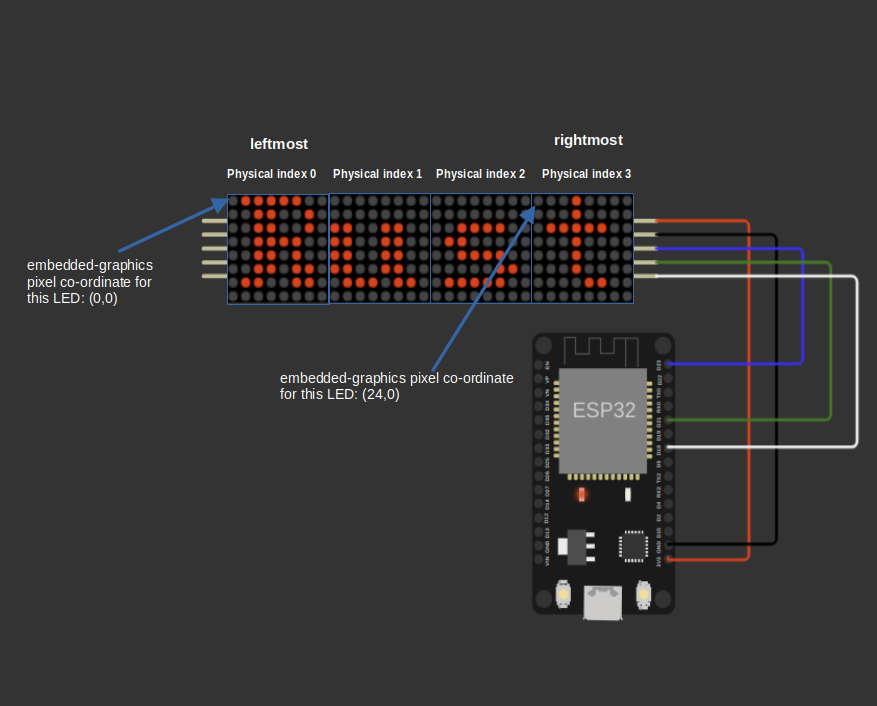
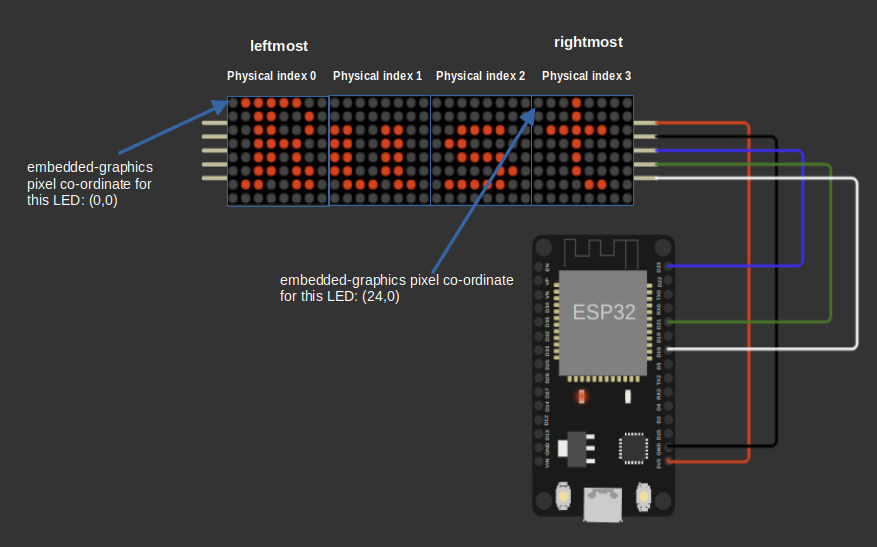
left-to-right indices for max7219 daisy-chain

Changed region(s): [[0.0308, 0.1243, 0.9852, 0.9634], [0.6157, 0.0622, 0.7081, 0.0932], [0.2771, 0.0622, 0.3694, 0.0932]]

diff --git a/src/max7219/driver-implementation/spi-write.md b/src/max7219/driver-implementation/spi-write.md
@@ -10,7 +10,14 @@ If there is just a single device (device index 0, which is the closest to the mi
 
 When there are multiple devices, we write at the right offset for the target device, and the rest of the buffer remains zeros (no-ops) to avoid affecting other devices.
 
-For example, if there are 4 devices and we want to write to the device at index 2 (the third device from the microcontroller), the offset for the register address is 2 * 2 = 4, and the data byte goes at index 5.
+<div style="text-align: center;">
+  <a href="../images/max7219-daisy-chain-indices.png"><img style="display: block; margin: auto;" alt="Max7219 Devices Device Indices" src="../images/max7219-daisy-chain-indices.png"/></a>
+  <figcaption style="font-style: italic; margin-top: 8px; color: #555;">
+    Figure 1: 4 daisy-chained Max7219 device Indices
+  </figcaption>
+</div> 
+
+For example, if there are 4 devices and we want to write to the device at index 2 (the third device from the left), the offset for the register address is 2 * 2 = 4, and the data byte goes at index 5.
 
 So the full data sent through SPI will look like this (2 bytes per device):
 
@@ -54,9 +61,9 @@ For example, if we have 4 devices and want to send register-data pairs to all, t
 
 | Index    | 0              | 1         | 2              | 3         | 4              | 5         | 6              | 7         |
 |----------|----------------|-----------|----------------|-----------|----------------|-----------|----------------|-----------|
-| Content  | reg_3 | data_3    | reg_2 | data_2    | reg_1 | data_1    | reg_0 | data_0    |
+| Content  | reg_0 | data_0    | reg_1 | data_1    | reg_2 | data_2    | reg_3 | data_3    |
 
-Here, bytes 0 and 1 are for device 3, bytes 2 and 3 for device 2, and so on.
+Here, bytes 0 and 1 are for device 0, bytes 2 and 3 for device 1, and so on.
 
 ```rust
 pub(crate) fn write_all_registers(&mut self, ops: &[(Register, u8)]) -> Result<()> {
@@ -64,7 +71,7 @@ pub(crate) fn write_all_registers(&mut self, ops: &[(Register, u8)]) -> Result<(
     self.buffer = [0; MAX_DISPLAYS * 2];
 
     // fill in reverse order so that SPI shifts into the last device first
-    for (i, &(reg, data)) in ops.iter().rev().enumerate() {
+    for (i, &(reg, data)) in ops.iter().enumerate() {
         let offset = i * 2;
         self.buffer[offset] = reg as u8;
         self.buffer[offset + 1] = data;
